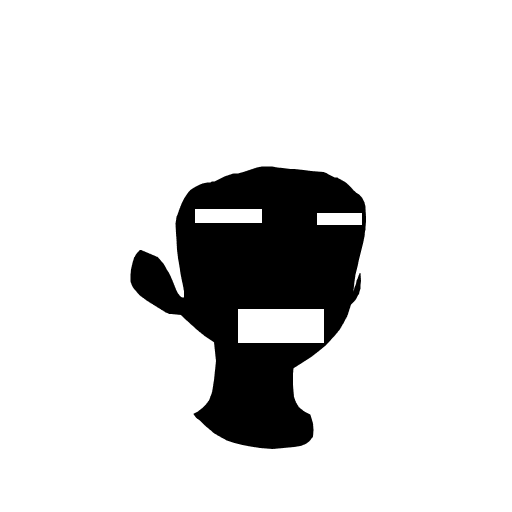
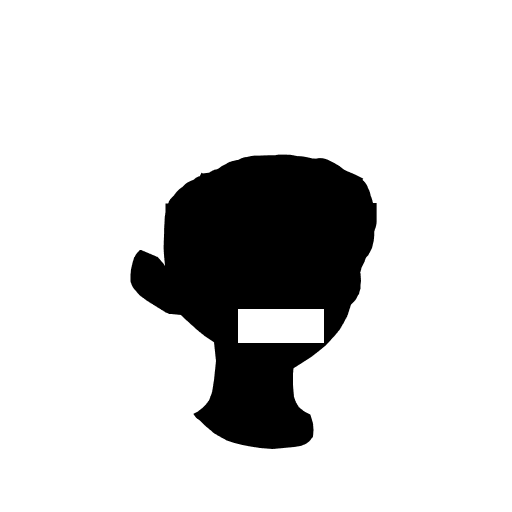
prompt, test

Changed region(s): [[0.3125, 0.2812, 0.75, 0.5938]]

diff --git a/main.py b/main.py
@@ -147,10 +147,10 @@ async def batch_predict(
     # 사랑: 분홍색 배경과 큰 눈, 미소짓는 입으로 캐릭터를 표현할 수 있습니다.
     # 축하: 파란색 배경과 큰 눈, 손에 선물 상자를 들고 있는 표정으로 캐릭터를 표현할 수 있습니다.
     # 신나는: 오렌지색 배경과 광대한 눈, 미소 짓고 손을 흔드는 표정으로 캐릭터를 표현할 수 있습니다.
-    base_positive_prompts = "anime, pixar style, 8k, High Detail, 3D, (one girl:1.0), simple hair, no hair band, (eyebrows:1.0)"
+    base_positive_prompts = "(anime),(pixar style:2.0), 8k, High Detail, 3D, (one girl:2.0),(one person:2.0), simple hair, no hair band"
     base_negative_prompts = "disfigured, bad art, extra fingers, mutated hands, blurry, bad anatomy, bad hair, arms, Accessories, (hair band:1.0), hat, hoodie, cap, glowing hair"
     prompts = [
-        ("in theme park, Wide smile, (smile with tooth:1.0), (white shirt:1.0), (black color hair:1.0), calm hair, smiling eyebrows, thick eyebrows", "bad quility"),
+        ("(sky:2.0),(Wide smile:2.0), (smile with tooth:1.0), (white shirt:1.0), (long straight hair:2.0),(untied hair:2.0),(black hair:2.0)", "(bad quility:2.0)"),
         # ("black color background, pouty mouth, white color shirt, gold color hair", "bad quility"),
         
     ]
@@ -165,8 +165,8 @@ async def batch_predict(
             'mask': open("assets/clonex_mask.png", "rb"),
             'invert_mask': False,
             'num_outputs': 1,
-            'num_inference_steps': 50,
-            'guidance_scale': 7.5,
+            'num_inference_steps': 100,
+            'guidance_scale': 6,
 
         }
 
@@ -207,11 +207,12 @@ async def batch_predict_test(
     # 사랑: 분홍색 배경과 큰 눈, 미소짓는 입으로 캐릭터를 표현할 수 있습니다.
     # 축하: 파란색 배경과 큰 눈, 손에 선물 상자를 들고 있는 표정으로 캐릭터를 표현할 수 있습니다.
     # 신나는: 오렌지색 배경과 광대한 눈, 미소 짓고 손을 흔드는 표정으로 캐릭터를 표현할 수 있습니다.
-    base_positive_prompts = "amazing detail, anime, pixar style, 8k, big eyes, High Detail, 3D"
-    base_negative_prompts = "disfigured, bad art, extra fingers, mutated hands, blurry, bad anatomy"
+    base_positive_prompts = "(anime),(pixar style:2.0), 8k, High Detail, 3D, (one girl:2.0),(one person:2.0), simple hair, no hair band"
+    base_negative_prompts = "disfigured, bad art, extra fingers, mutated hands, blurry, bad anatomy, bad hair, arms, Accessories, (hair band:1.0), hat, hoodie, cap, glowing hair"
     prompts = [
-        # ("yellow colored background, Wide smile, smile with tooth, lime color knitwear cloth, black color hair, neat ponytail-style hair, wearing a pearl necklace", ""),
-        ("black color background, sad eyes, sad mouth, wearing white color shirt, glod color hair", ""),
+        ("(sky:2.0),(Wide smile:2.0), (smile with tooth:1.0), (white shirt:1.0), (long straight hair:2.0),(untied hair:2.0),(black hair:2.0)", "(bad quility:2.0)"),
+        # ("black color background, pouty mouth, white color shirt, gold color hair", "bad quility"),
+        
     ]
 
     results = []
@@ -247,6 +248,8 @@ async def batch_predict_test(
                 f.write(response.content)
 
             # Return the output image as a response
+            results.append(outputs[0])
+            results.append(outputs[0])
             results.append(outputs[0])
         
     return results
